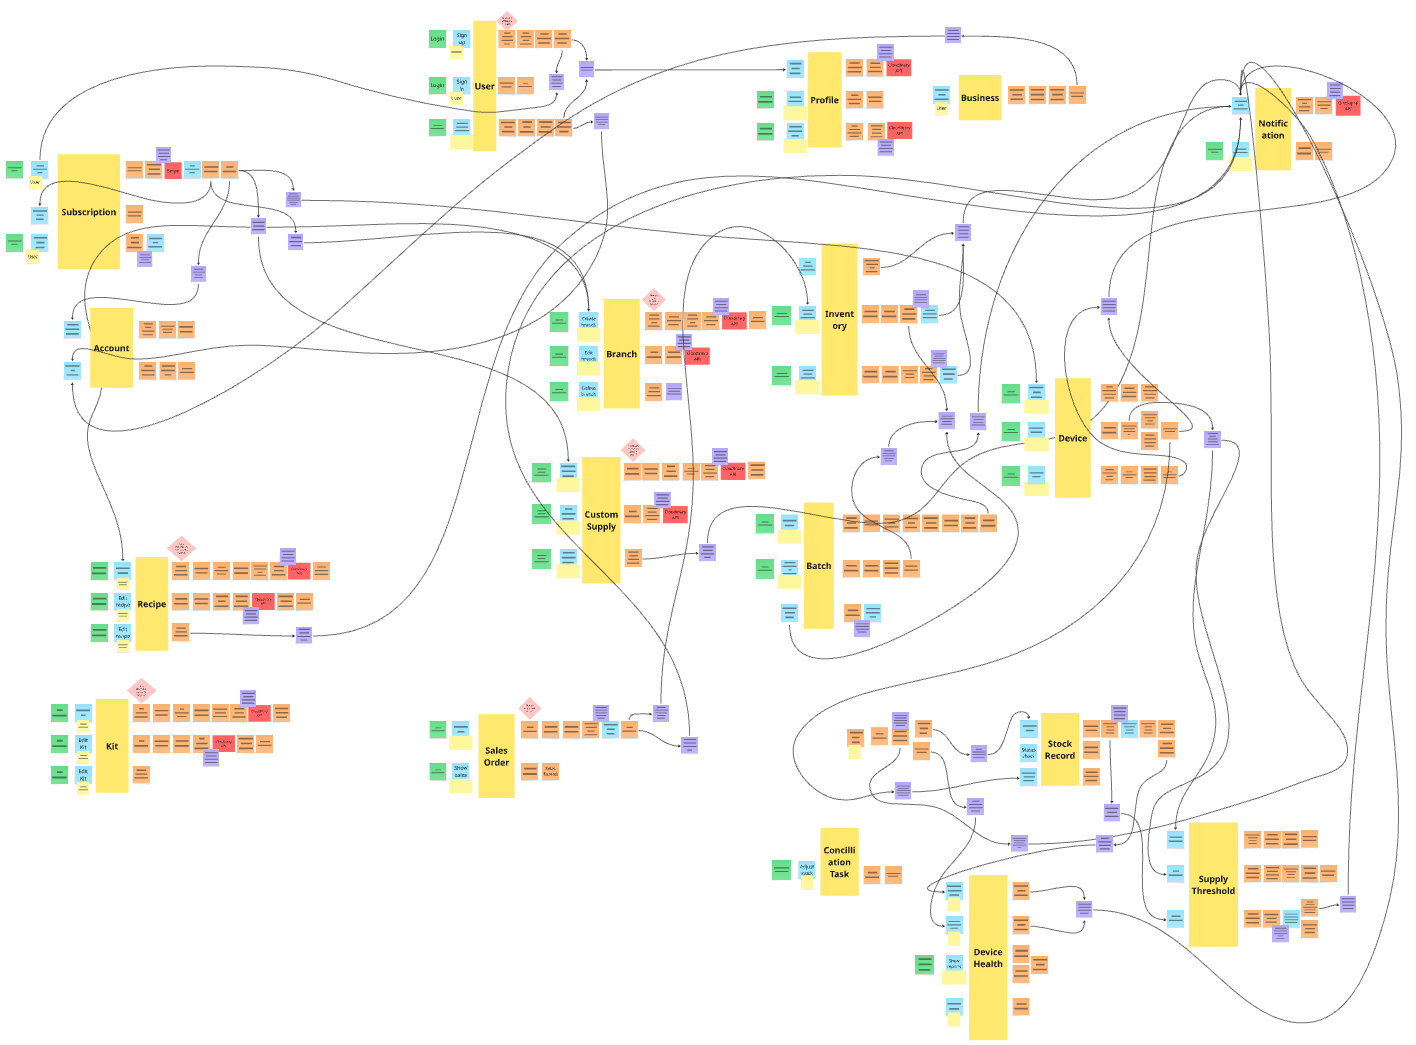
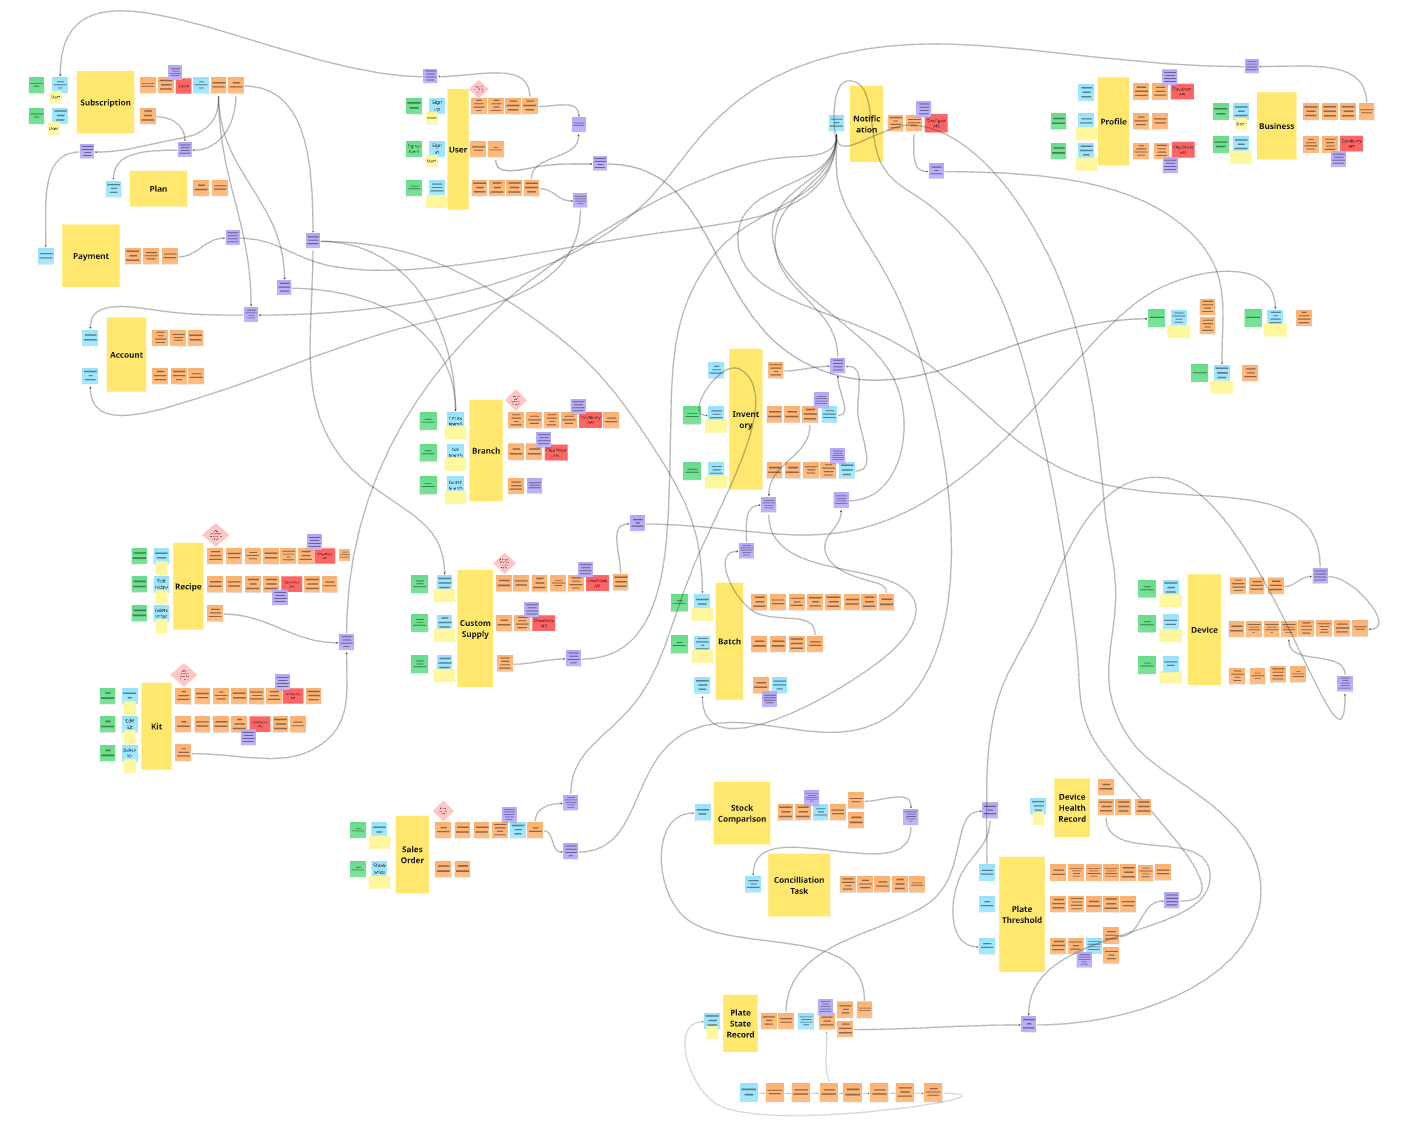
feat: add new bounded contexts to candidate discovery section.

Changed region(s): [[0.0, 0.0, 0.9822, 0.7656], [0.2455, 0.6431, 0.9822, 1.0], [0.9208, 0.1837, 0.9515, 0.2144]]

diff --git a/04-chap4-solution-software-design.md b/04-chap4-solution-software-design.md
@@ -76,7 +76,7 @@ Con estos pain points identificados y priorizados, el equipo avanzó con la cons
 Con el fin de mantener la consistencia y facilitar la interpretación del modelo, el equipo definió una convención de colores para los post-its utilizados:
 
 <div style="display: flex; align-items: center;">
-  <img src="https://imgur.com/OfzjwJm.png" alt="event-storming-color-convention">
+  <img src="https://imgur.com/OfzjwJm.png" alt="event-storming-color-convention" width="500px">
 </div>
 
 Con el fin de mantener la consistencia y facilitar la interpretación del modelo, el equipo definió una convención de colores para los post-its utilizados durante la tercera fase del Design-Level Event Storming. Esta convención permitió identificar de manera visual los distintos elementos del dominio, tales como eventos, comandos, actores, políticas, modelos de lectura y sistemas externos, facilitando la comprensión de las relaciones y flujos dentro del sistema.
@@ -270,17 +270,17 @@ El equipo identificó tres sistemas externos:
 El noveno paso consistió en identificar los agregados del dominio y agrupar en torno a ellos los comandos, eventos y políticas correspondientes. Los agregados se representan con tarjetas de color amarillo de mayor tamaño y constituyen la unidad de consistencia del dominio.
 
 <div style="display: flex; align-items: center;">
-  <img src="https://imgur.com/PBMkzAf.png" alt="aggregates">
-  <img src="https://imgur.com/Zvyn232.png" alt="aggregates">
-  <img src="https://imgur.com/1KBSr9c.png" alt="aggregates">
-  <img src="https://imgur.com/LgEVu9L.png" alt="aggregates">
-  <img src="https://imgur.com/x1YNoUB.png" alt="aggregates">
-  <img src="https://imgur.com/SCVcxva.png" alt="aggregates">
-  <img src="https://imgur.com/MhiSYQl.png" alt="aggregates">
-  <img src="https://imgur.com/jCdhakC.png" alt="aggregates">
-  <img src="https://imgur.com/nSjYQkn.png" alt="aggregates">
-  <img src="https://imgur.com/xKjeZEy.png" alt="aggregates">
-  <img src="https://imgur.com/AB3T2Wc.png" alt="aggregates">
+  <img src="https://imgur.com/PBMkzAf.png" alt="aggregates" width="400px"><br>
+  <img src="https://imgur.com/Zvyn232.png" alt="aggregates" width="400px"><br>
+  <img src="https://imgur.com/1KBSr9c.png" alt="aggregates" width="400px"><br>
+  <img src="https://imgur.com/LgEVu9L.png" alt="aggregates" width="400px"><br>
+  <img src="https://imgur.com/x1YNoUB.png" alt="aggregates" width="400px"><br>
+  <img src="https://imgur.com/SCVcxva.png" alt="aggregates" width="400px"><br>
+  <img src="https://imgur.com/MhiSYQl.png" alt="aggregates" width="400px"><br>
+  <img src="https://imgur.com/jCdhakC.png" alt="aggregates" width="400px"><br>
+  <img src="https://imgur.com/nSjYQkn.png" alt="aggregates" width="400px"><br>
+  <img src="https://imgur.com/xKjeZEy.png" alt="aggregates" width="400px"><br>
+  <img src="assets/images/chapter4/eventstorming-steps/bc-tracking-aggregates.png" alt="aggregates" width="400px"><br>
 </div>
 
 El equipo identificó los agregados en cada bounded context de la siguiente manera:
@@ -294,14 +294,15 @@ El equipo identificó los agregados en cada bounded context de la siguiente mane
 - En **Communications** se identificó el agregado **Notification**, que gestiona la generación de notificaciones ante eventos del sistema y su despacho mediante OneSignal API.
 - En **Device Management** se identificó el agregado **Device**, que centraliza el registro, configuración y desactivación de dispositivos IoT, incluyendo la asignación de sucursal, insumo de seguimiento, umbrales de peso, humedad y temperatura, y programación de encendido y apagado.
 
-En **Tracking** se identificaron seis agregados:
+En **Tracking** se identificaron cinco agregados principales:
 
-- **Device Health Record** gestiona el monitoreo de la salud operativa del dispositivo a partir de métricas de voltaje, uso de CPU, uso de memoria y temperatura del dispositivo, con dos posibles resultados: `Data analyzed` o `Anomaly detected`.
-- **Box State Record** centraliza el flujo completo de telemetría física del dispositivo, incorporando explícitamente las tres variables ambientales monitoreadas: peso, temperatura y humedad. El flujo es: `Weight registered` → `Temperature registered` → `Humidity registered` → `Values checked` → `Divide the weight received to calculate the physical stock` → `Approximated supply data processed` → `Physical stock estimated`, con dos derivaciones posibles: `Processed data stored` o `Data anomaly detected`. La inclusión de temperatura y humedad como variables de primer nivel responde al requisito de monitorear no solo la cantidad del insumo sino también sus condiciones de conservación.
-- **Stock Comparison** gestiona la comparación entre el stock físico estimado por el dispositivo y el stock digital registrado en el sistema, incorporando el evento de lectura `Stock record consulted` previo a la evaluación y derivando en `Discrepancy detected` o `Stock verified`.
-- **Power Schedule** gestiona la programación de encendido y apagado del dispositivo, con el flujo: `Device selected` → `Power off schedule set` → `Power on schedule set` → `Configuration stored`, y la ejecución automática: `Schedules detected` → `Schedule time reached` → `Turn on/off action evaluated` → `Device turned on` / `Device turned off`.
-- **Conciliation Task** gestiona el proceso de ajuste de stock cuando se detecta una discrepancia: `Physical and digital stock received` → `Stock difference received` → `Stock adjusted` → `Real stock stored`.
-- **Box Threshold** centraliza la configuración y verificación de umbrales de alerta por dispositivo. Al registrar un umbral se capturan los límites mínimos y máximos de las tres variables monitoreadas — **peso**, **temperatura** y **humedad** — junto al nombre del insumo asociado. Al verificar un umbral, el sistema evalúa si los valores actuales de cualquiera de estas tres variables superan los límites configurados, generando la política `Generates an alert of surpassed threshold` cuando corresponde.
+- **Device Health Record**: gestiona el monitoreo técnico del dispositivo a partir de métricas como voltaje, uso de CPU, uso de memoria y temperatura interna. El flujo considera `Voltage registered` → `CPU usage registered` → `Memory usage registered` → `Device temperature registered` → `Data analyzed`, pudiendo derivar en `Anomaly report received`, `Health record stored` y `Health history updated`.
+- **Plate State Record**: centraliza la telemetría física del dispositivo. Registra las variables principales `Weight registered`, `Temperature registered` y `Humidity registered`, luego valida los valores con `Values checked` y calcula el stock físico mediante la política `Divide the weight received to calculate the physical stock`. El resultado puede ser `Physical stock estimated`, `Processed data stored`, `Processed data sent` o `Data anomaly detected`.
+- **Stock Comparison**: compara el stock físico estimado con el stock digital registrado. El flujo parte de `Physical stock received` y `Digital stock received`, ejecuta `Perform stock comparison` y deriva en `Difference evaluated`, `Discrepancy detected` o `Stock verified`. Si existe discrepancia, se activa la política para crear una tarea de conciliación.
+- **Conciliation Task**: gestiona el ajuste de inventario cuando se detecta una diferencia entre stock físico y digital. El flujo sigue: `Physical and digital stock received` → `Stock difference received` → `Stock adjusted` → `Real stock stored`.
+- **Plate Threshold**: administra la configuración y verificación de umbrales por dispositivo. Registra límites mínimos y máximos de peso, temperatura y humedad, junto con el insumo asociado. Luego compara los datos calculados contra dichos límites mediante `Compare the data read with the threshold`. Si se supera un umbral, se genera `Device threshold surpassed` y la política `Generates an alert of surpassed threshold`.
+
+A partir del Event Storming actualizado, **Tracking** se enfoca en procesar lecturas del dispositivo, estimar stock físico, comparar inventario, evaluar umbrales, registrar salud operativa y generar alertas o tareas de conciliación. La configuración administrativa del dispositivo, como horarios de encendido o apagado, queda fuera de este bounded context y pertenece a **Device Management**.
 
 A partir del modelo de Event Storming, se llevó a cabo una sesión de Candidate Context Discovery para identificar los bounded contexts de la solución. Se utilizó principalmente la técnica look-for-pivotal-events durante la sesión.
 
@@ -319,21 +320,21 @@ Se trazaron fronteras alrededor de los grupos identificados, estableciendo los l
 
 Finalmente, se seleccionaron nombres para los bounded context. Dando como resultado la definición de 8 bounded contexts y la **versión final del Event Storming**:
 
-<img src="https://imgur.com/oI92pdH.png" alt=“DDD” width="800px">
+<img src="assets/images/chapter4/event_storming.png" alt=“DDD” width="800px">
 
 A continuación, se explicará en qué consiste cada bounded context:
 
 **Identity and Access Management:** También llamado "IAM", este bounded context contiene el proceso de ingreso del usuario a la plataforma, ya sea iniciando sesión o registrandose.
 
-<img src="assets/images/chapter4/candidate_context/bounded_iam.jpg" alt=“DDD” width="500px">
+<img src="assets/images/chapter4/candidate_context/bounded_iam.png" alt=“DDD” width="500px">
 
 **Subscriptions and Payments:** También llamado "Subscriptions", este bounded context contiene el proceso de selección de planes, configuración de suscripciones, procesamiento de pagos e inicialización de cuentas de negocio, incluyendo la integración con plataformas externas como Stripe.
 
-<img src="assets/images/chapter4/candidate_context/bounded_subscriptions.jpg" alt=“DDD” width="500px">
+<img src="assets/images/chapter4/candidate_context/bounded_subscriptions.png" alt=“DDD” width="500px">
 
-**Profiles and Preferences:** También llamado "Profile", este bounded context contiene el proceso de gestión de la información personal del usuario, incluyendo la actualización de datos, cambio de contraseña y configuración de preferencias, así como la gestión de información del negocio.
+**Profiles and Preferences:** También llamado "Profiles", este bounded context contiene el proceso de gestión de la información personal del usuario, incluyendo la actualización de datos, cambio de contraseña y configuración de preferencias, así como la gestión de información del negocio.
 
-<img src="assets/images/chapter4/candidate_context/bounded_profile.jpg" alt=“DDD” width="500px">
+<img src="assets/images/chapter4/candidate_context/bounded_profiles.png" alt=“DDD” width="500px">
 
 **Communications:** Este bounded context contiene el proceso de generación, envío y recepción de notificaciones dentro de la plataforma, a partir de eventos relevantes del sistema como alertas de stock o incidencias, integrándose con servicios externos como OneSignal para la distribución de mensajes.
 
@@ -341,19 +342,27 @@ A continuación, se explicará en qué consiste cada bounded context:
 
 **Asset and Resource Management:** También llamado "Resource", este bounded context contiene el proceso de gestión de inventario, insumos, lotes y sucursales, incluyendo el registro, actualización y control de stock, así como la administración de proveedores y recursos asociados.
 
-<img src="assets/images/chapter4/candidate_context/bounded_resource.jpg" alt=“DDD” width="500px">
+<img src="assets/images/chapter4/candidate_context/bounded_resource.png" alt=“DDD” width="500px">
 
 **Service Design and Planning:** También llamado "Planning", este bounded context contiene el proceso de diseño y gestión de recetas y kits, incluyendo la selección de insumos, categorización, actualización de información y almacenamiento de imágenes, permitiendo definir cómo se estructuran los productos dentro del sistema.
 
-<img src="assets/images/chapter4/candidate_context/bounded_planning.jpg" alt=“DDD” width="500px">
+<img src="assets/images/chapter4/candidate_context/bounded_planning.png" alt=“DDD” width="500px">
 
 **Sales Order Management:** También llamado "Sales", este bounded context contiene el proceso de registro y gestión de ventas, incluyendo la selección de productos, cálculo del total, confirmación de la venta y actualización automática del stock disponible.
 
-<img src="assets/images/chapter4/candidate_context/bounded_sales.jpg" alt="DDD" width="500px">
+<img src="assets/images/chapter4/candidate_context/bounded_sales.png" alt="DDD" width="500px">
 
-**Service Operation and Monitoring:** También llamado "Monitoring", este bounded context contiene el proceso de monitoreo del estado del inventario físico y dispositivos, incluyendo la recepción de datos desde sensores, detección de anomalías, gestión de umbrales de stock y generación de tareas de conciliación o alertas ante inconsistencias.
+**Device Management:** También llamado "Device", este bounded context contiene el proceso de registro, asignación, configuración y desactivación de dispositivos IoT dentro de la plataforma, incluyendo la asociación del dispositivo a una sucursal, a un insumo personalizado y a sus parámetros básicos de medición.
 
-<img src="assets/images/chapter4/candidate_context/bounded_monitoring.jpg" alt=“DDD” width="500px">
+<img src="assets/images/chapter4/candidate_context/bounded_device.png" alt="DDD" width="500px">
+
+**Tracking:** Este bounded context contiene el proceso de monitoreo del estado del inventario físico y dispositivos, incluyendo la recepción de datos desde sensores, detección de anomalías, gestión de umbrales de stock y generación de tareas de conciliación o alertas ante inconsistencias.
+
+<img src="assets/images/chapter4/candidate_context/bounded_tracking.png" alt=“DDD” width="500px">
+
+**Analytics:** Este bounded context contiene el proceso de análisis de información operativa del sistema, incluyendo la generación de reportes, métricas, visualizaciones e indicadores sobre inventario, ventas, alertas, discrepancias y comportamiento de los dispositivos, con el fin de apoyar la toma de decisiones del administrador.
+
+<img src="assets/images/chapter4/candidate_context/bounded_analytics.png" alt="DDD" width="500px">
 
 #### 4.1.1.2 Domain Message Flows Modeling
 
@@ -374,7 +383,7 @@ Los Domain Message Flows modelan las interacciones entre los diferentes bounded 
 
 **Push Notification Dispatch:** En este flujo se detalla cómo el bounded context de Comunications reacciona a eventos anómalos del sistema, filtrando destinatarios y delegando el envío de alertas a dispositivos móviles mediante una integración con una API externa (OneSignal).
 
-  <img src="assets/images/chapter4/message_flows/push_notification_dispatch.png" alt="Domain Message Flow - Push Notification Dispatch" height="500px">
+<img src="assets/images/chapter4/message_flows/push_notification_dispatch.png" alt="Domain Message Flow - Push Notification Dispatch" height="500px">
 
 Adicionalmente, se presentan flujos de escenarios relevantes para el core del negocio, pero que por su alta cohesión resuelven sus procesos sin requerir interacción con otros bounded contexts externos:
 
@@ -676,7 +685,6 @@ El diagrama de despliegue muestra la distribución física de los componentes de
 **MQTT Broker:** El broker de mensajería para telemetría es desplegado en HiveMQ Cloud, una solución en nube para implementación de comunicación MQTT para ecosistemas IoT.
 
 **Embedded Application:** El software embebido se despliega de forma local en el ESP32 del dispositivo IoT.
-
 
 ## 4.2. Tactical-Level Domain-Driven Design
 
@@ -4084,7 +4092,7 @@ En esta sección se presentan los diagramas de componentes del bounded context A
 
 ##### Web Application Component Diagram
 
-El componente de la aplicación web cliente se ejecuta en el navegador del usuario y presenta las interfaces gráficas (UI) para la manipulación de inventarios, creación de sucursales y configuración de cabinas inteligentes en pantallas de escritorio o laptops. Se comunica con el backend a través de un NGNIX Load Balancer. 
+El componente de la aplicación web cliente se ejecuta en el navegador del usuario y presenta las interfaces gráficas (UI) para la manipulación de inventarios, creación de sucursales y configuración de cabinas inteligentes en pantallas de escritorio o laptops. Se comunica con el backend a través de un NGNIX Load Balancer.
 
 <img src="https://i.imgur.com/mWzflhf.png" alt="Web Asset and Resource Management Component Diagram" width="100%">
 
@@ -5161,8 +5169,8 @@ La capa de infraestructura del Bounded Context de **Service Operation and Monito
 
 ##### Web Application Component Diagram
 
-Este diagrama muestra el componente **Tracking UI** de la aplicación web, desarrollado en TypeScript y Angular, cuya función es permitir a los usuarios visualizar la información en tiempo real que leen los dispositivos IoT. 
-Las solicitudes del cliente se envían hacia **NGINX Load Balancer**, que actúa como punto de entrada, balanceador, rate limiting y enrutamiento hacia los contextos internos autorizados. 
+Este diagrama muestra el componente **Tracking UI** de la aplicación web, desarrollado en TypeScript y Angular, cuya función es permitir a los usuarios visualizar la información en tiempo real que leen los dispositivos IoT.
+Las solicitudes del cliente se envían hacia **NGINX Load Balancer**, que actúa como punto de entrada, balanceador, rate limiting y enrutamiento hacia los contextos internos autorizados.
 
 <img src="https://i.imgur.com/3cdXScV.png" alt="Relaciones del dominio de Tracking en la aplicación web">
 
@@ -5880,7 +5888,6 @@ El diagrama representa la implementación del bounded context de Sales Order Man
 El diagrama representa la implementación del bounded context de Sales Order Management, se implementa como un componente Java/Spring Boot dentro del Restock Cloud Server Side App, actúa como el núcleo del procesamiento: recibe solicitudes del Kong Gateway y valida tokens JWT con Identity and Access Management, persiste las ventas en la Restock Database, actualiza el stock en Asset and Resource Management, descuenta cantidades en Service Design and Planning, y dispara notificaciones a través del componente Communications.
 
 <img src="https://i.imgur.com/HWSxEVk.png" alt="Backend Sales Order Management Component Diagram" width="100%">
-
 
 <p><em>Tabla de Componentes de la Backend Application para Asset and Resource Management</em></p>
 
@@ -6732,14 +6739,11 @@ El componente Communications dentro de la Restock Web Application actúa como pu
 
 El diagrama evidencia que el componente Communications posee una responsabilidad acotada y bien definida dentro de la capa cliente web. Su única interacción externa consiste en realizar solicitudes REST hacia el Cloud REST API mediante JSON/HTTPS para recuperar las alertas generadas por el sistema, extendiendo las utilidades base del componente Shared para la configuración de cabeceras HTTP y endpoints. Este diseño refleja el principio de responsabilidad única aplicado al frontend: el componente web no genera alertas, no las clasifica ni las envía; únicamente las consume y las presenta al usuario, mientras la lógica de negocio permanece en el backend.
 
-
 ##### Mobile Application Component Diagram
 
 El componente Communications dentro de la Restock Mobile Application replica el comportamiento del componente web, adaptado al contexto de la aplicación móvil desarrollada en Dart y Flutter. Al igual que en la versión web, realiza solicitudes al backend para recuperar el historial de alertas y notificaciones, permitiendo que los administradores consulten en tiempo real el estado de sus alertas desde sus dispositivos móviles.
 
-
 <img src="https://imgur.com/M6yta1c.png" alt="mobile-communicaiton">
-
 
 El diagrama muestra que el componente Communications de la aplicación móvil replica estructuralmente el comportamiento del componente web, pero adaptado al contexto de Flutter y Dart. Esta simetría entre ambas implementaciones cliente refleja una decisión de diseño deliberada: ambos canales exponen la misma funcionalidad de consulta al usuario, independientemente del dispositivo utilizado, garantizando una experiencia consistente. Cabe destacar que el componente móvil tampoco interactúa directamente con OneSignal, dado que la recepción de notificaciones push en el dispositivo se gestiona a nivel del sistema operativo móvil mediante el SDK de OneSignal, sin requerir lógica adicional en la capa de componentes de la aplicación.
 
@@ -6747,11 +6751,9 @@ El diagrama muestra que el componente Communications de la aplicación móvil re
 
 El componente Communications dentro del Cloud REST API concentra toda la lógica de generación, clasificación y despacho de alertas y notificaciones del sistema. Este componente actúa como receptor de eventos críticos provenientes de otros bounded contexts, valida la identidad del usuario mediante JWT a través del componente Identity and Access Management, persiste las alertas en la base de datos MongoDB y delega el envío de notificaciones push al servicio externo OneSignal API.
 
-
 <img src="https://imgur.com/a2PNUBA.png" alt="api-communicaiton">
 
 El diagrama es el más representativo del Bounded Context Communication, ya que concentra la totalidad de la lógica de negocio relacionada con la generación, clasificación y despacho de alertas y notificaciones. El componente Communications funciona como nodo central de un conjunto de interacciones entrantes y salientes claramente diferenciadas. Por el lado de las entradas, recibe eventos críticos desde tres orígenes distintos: el componente Asset and Resource Management le notifica eventos de stock crítico como bajo stock, sobrestock o discrepancias detectadas; el componente Sales Order Management le comunica el registro de nuevas órdenes de venta; y la Restock Edge Application le envía alertas físicas de stock generadas por los dispositivos IoT instalados en las sucursales. Por el lado de las salidas, el componente valida la identidad del usuario a través de Identity and Access Management mediante JWT, persiste las alertas generadas en la base de datos MongoDB y delega el envío de notificaciones push a OneSignal API. Este diseño garantiza que Communications sea el único punto de salida hacia OneSignal dentro del sistema, centralizando el control de notificaciones y manteniendo un acoplamiento mínimo con los demás bounded contexts, los cuales únicamente publican eventos sin conocer los detalles del canal de entrega final.
-
 
 #### 4.2.8.6. Bounded Context Software Architecture Code Level Diagrams
 
